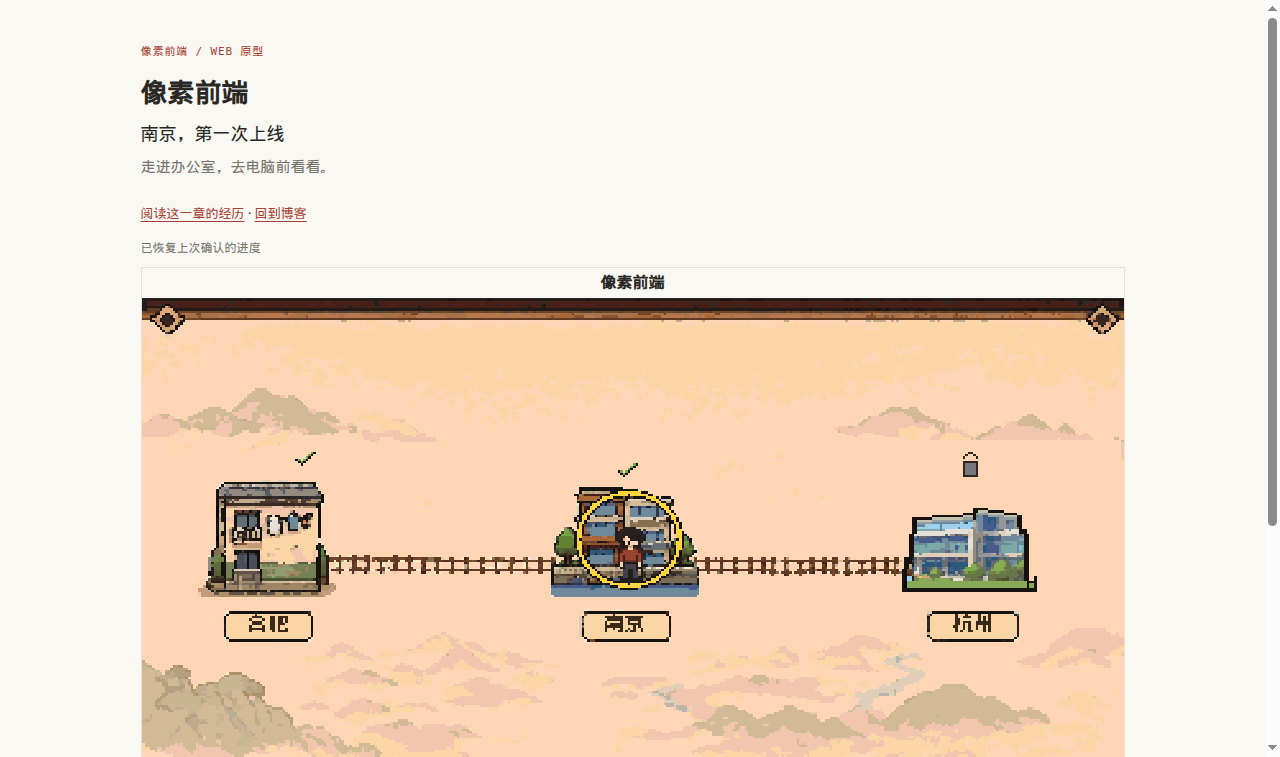
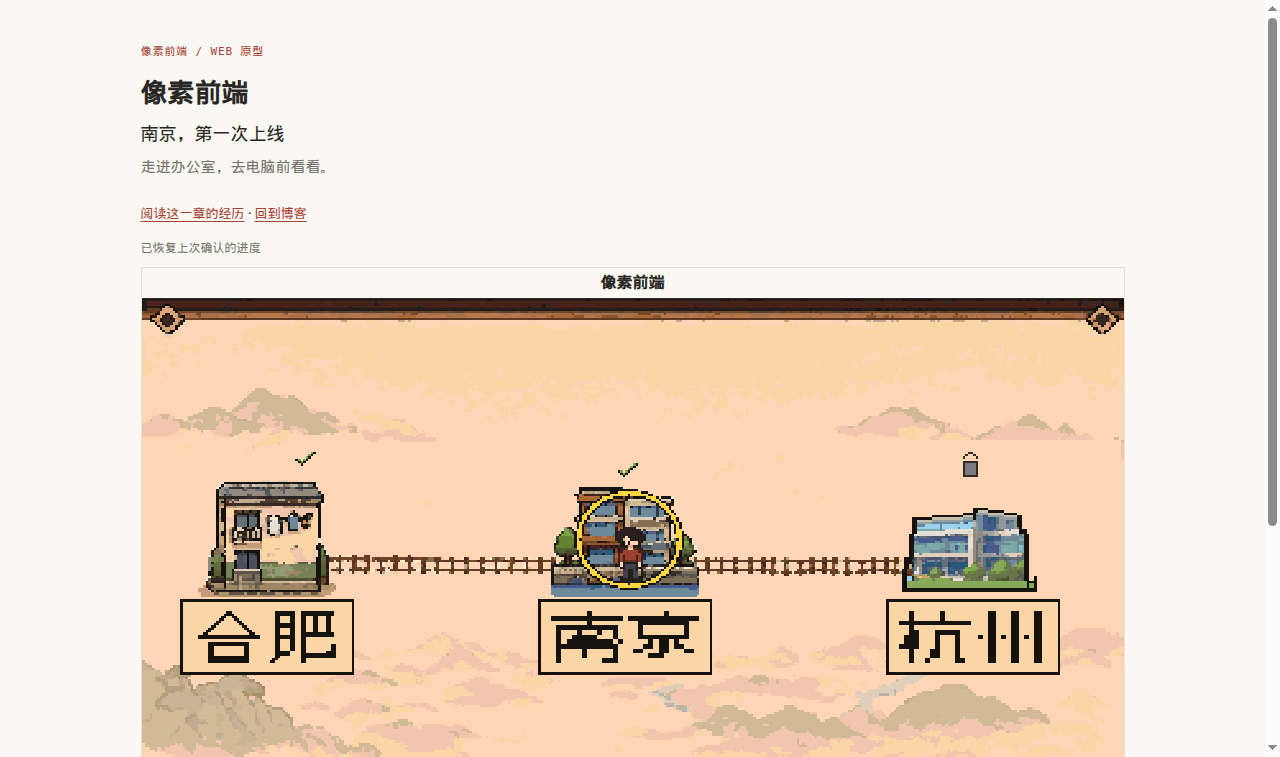
旅程地图地名改用像素字，合肥可以一眼读清 (#34)
* 旅程地图地名改用 14×11 像素字，合肥可以一眼读清

8px 系统字再取阈值会把「合」画成「古」。牌子内腔按整数坐标贴像素字，最近邻放大后仍是合肥、南京、杭州。

* 旅程地图地名牌加到 68×32，字身 22px 高

整页 1× 里 14×11 的「肥」糊成一块、「州」挤在一起。牌子盖住原小牌，28×22 像素字按整数坐标 1:1 贴上。

* 合的屋顶改尖，州的三竖加重

合的撇捺按行斜出，顶是尖的，一横和口还在。州用三像素竖笔通到字底，上沿各有一颗点。

* 州的三个点改到竖笔之间的中部

点不再贴在竖笔顶端，和竖笔留出空隙，避免连成卅。合、肥、南京、杭的字模不动。

---------

Changed region(s): [[0.4062, 0.79, 0.5625, 0.9115], [0.125, 0.79, 0.2812, 0.9115], [0.6875, 0.79, 0.8438, 0.9115]]

diff --git a/games/career-rpg/handoff.md b/games/career-rpg/handoff.md
@@ -2,7 +2,7 @@
 
 ## 当前恢复点（2026-11-05，杭州换皮与改名）
 
-用户确认杭州美术和改名。运行图在 `web/art/hangzhou/`，旅程地图换成 v2，空地名牌由程序叠「合肥 / 南京 / 杭州」。游戏名是《像素前端》，旧口号已从玩家界面去掉。Webpack 和 Babel 共用左下那一屏：先读 Webpack，再读 Babel，然后在同一屏上先后拾取。不修走路卡顿，不做坐姿。
+用户确认杭州美术和改名。运行图在 `web/art/hangzhou/`，旅程地图换成 v2，空地名牌由程序叠「合肥 / 南京 / 杭州」。地名牌 68×32，字身 28×22。合的屋顶是尖的撇捺，州是三颗点加通长竖笔。游戏名是《像素前端》，旧口号已从玩家界面去掉。Webpack 和 Babel 共用左下那一屏：先读 Webpack，再读 Babel，然后在同一屏上先后拾取。不修走路卡顿，不做坐姿。
 
 ## 当前恢复点（2026-11-05，南京技能与旅程地图）
 
